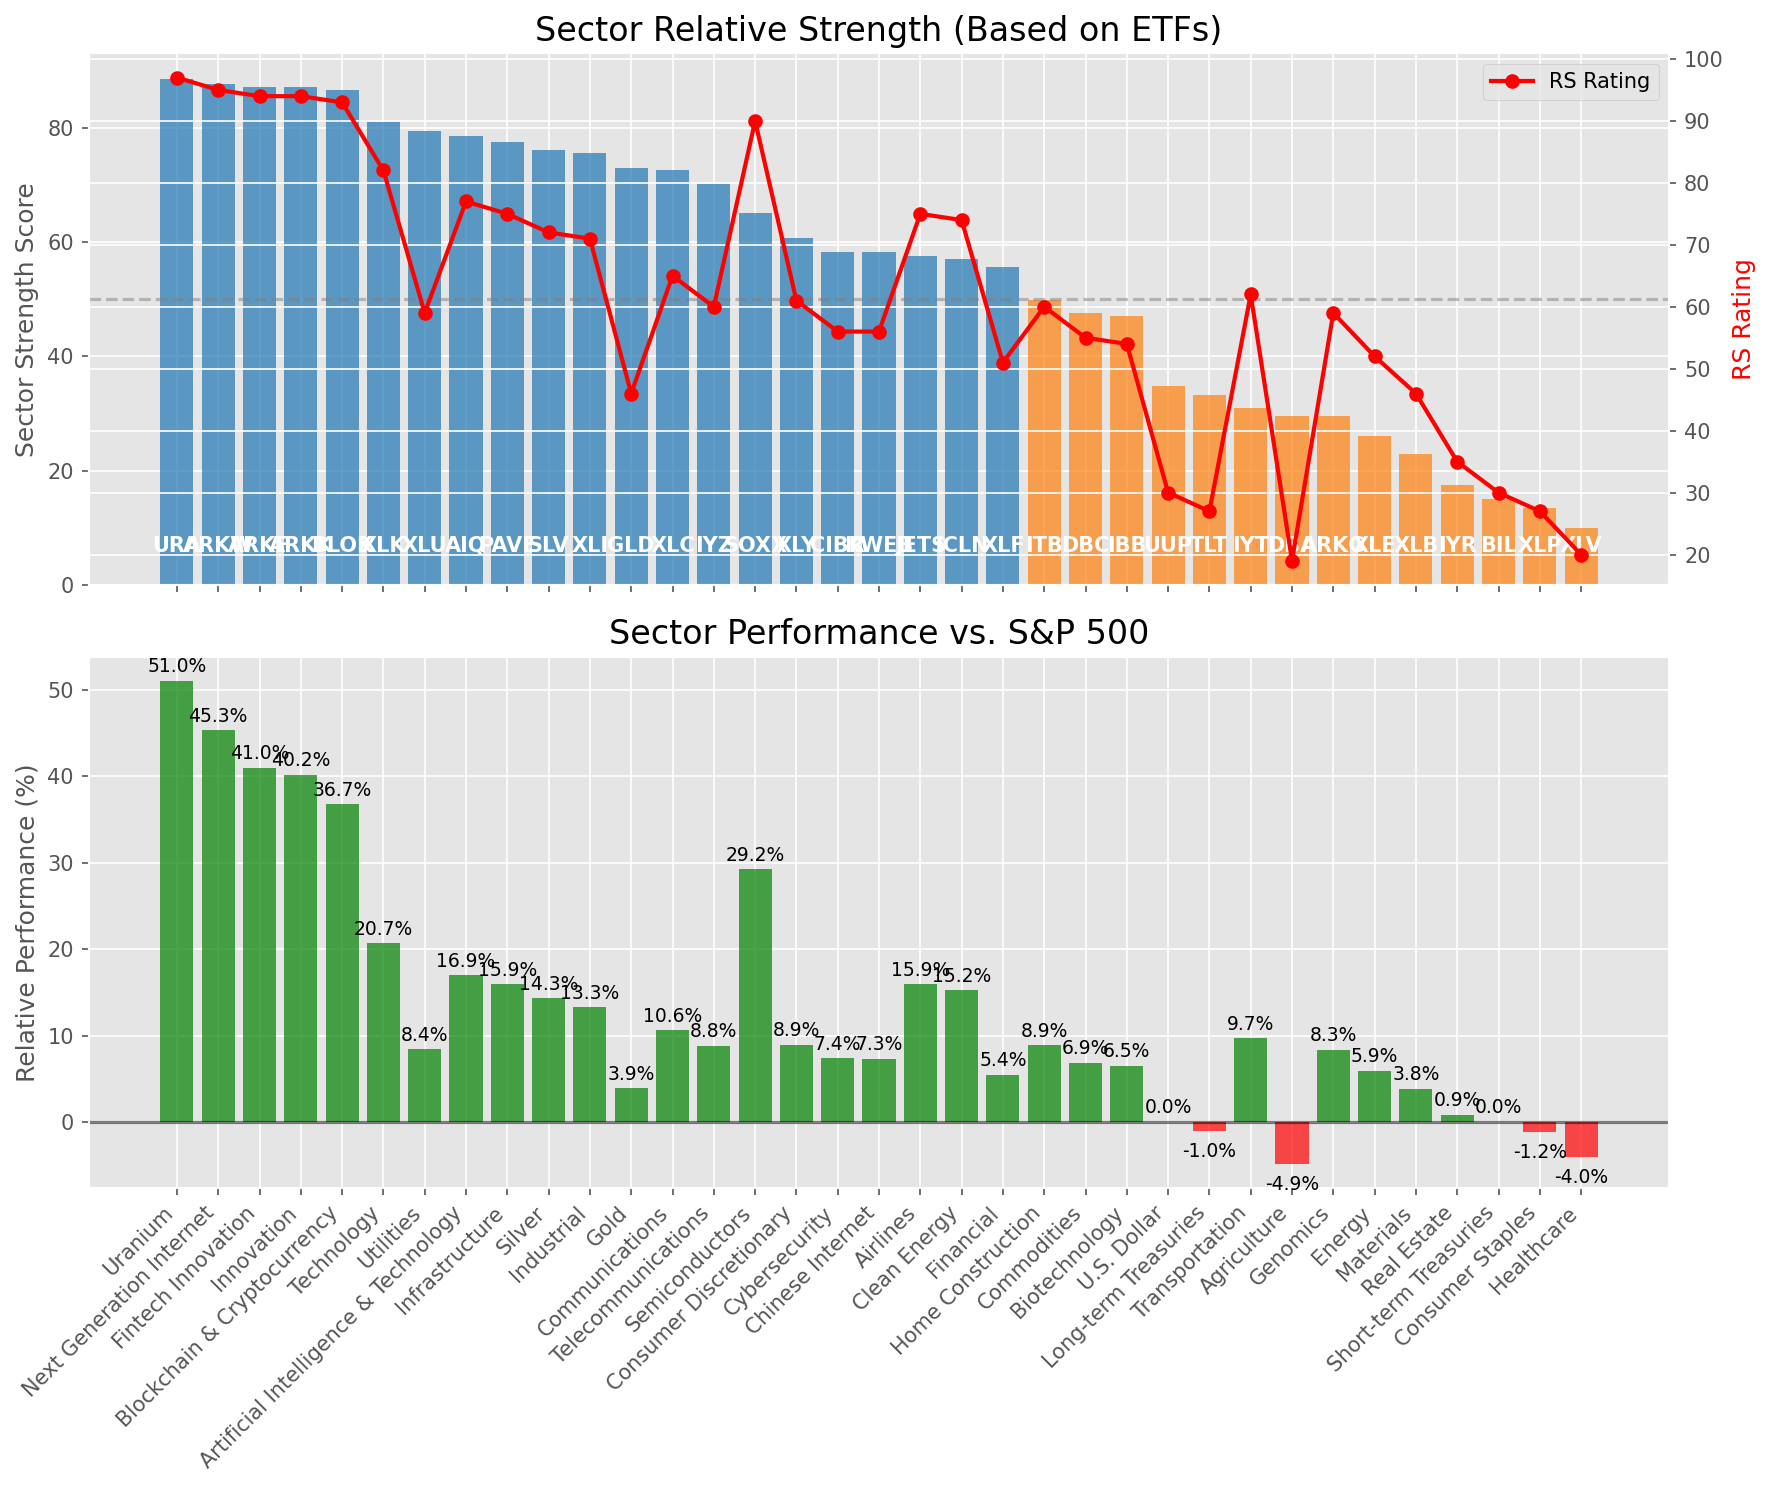
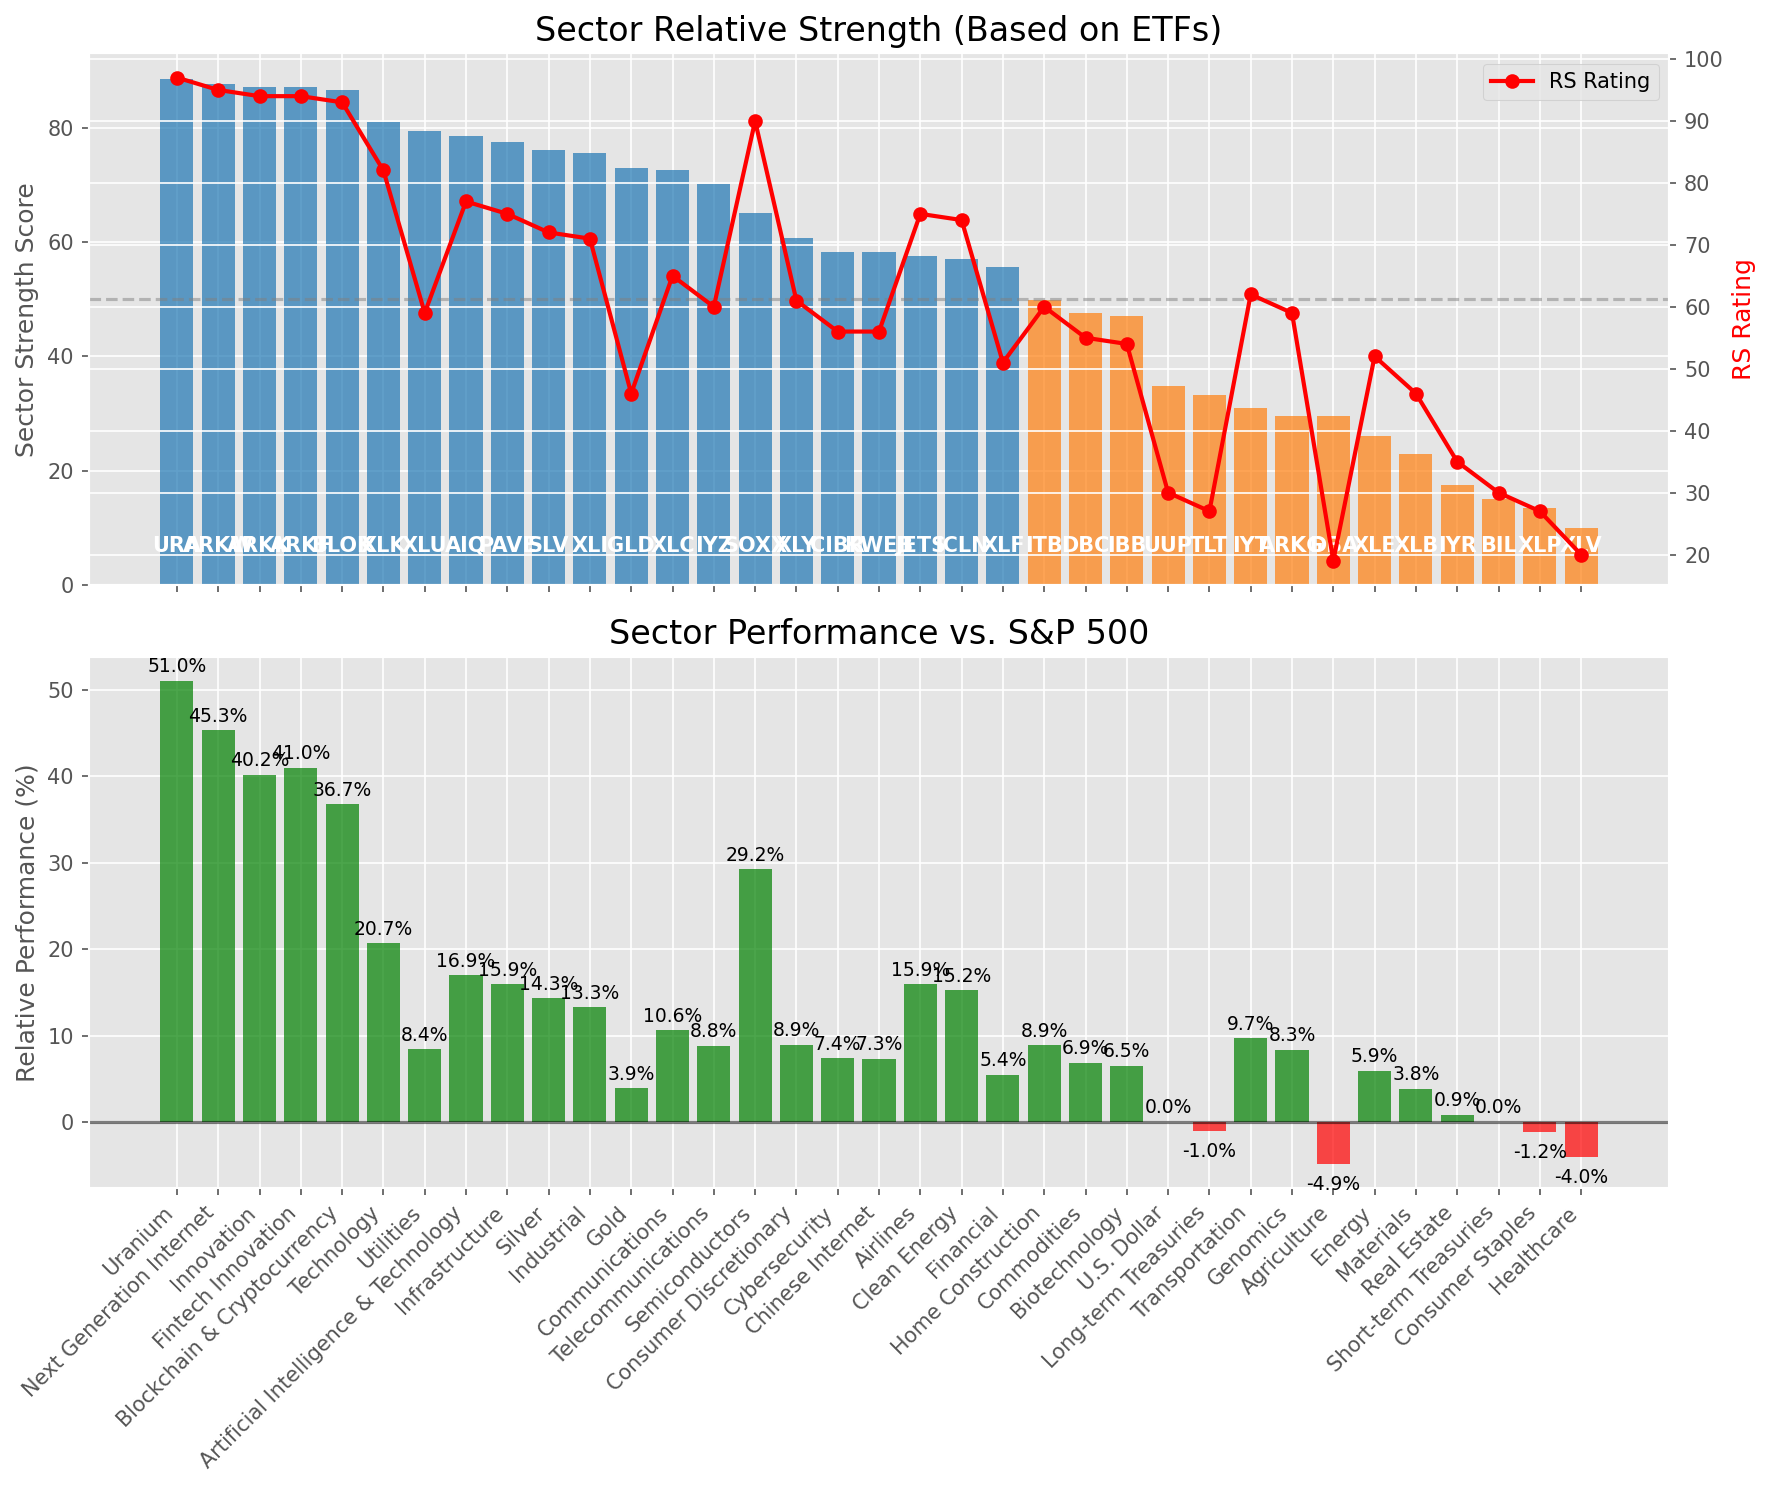
Add market report for 2025-08-03

diff --git a/oneil_relative_strength_report_2025-08-03.md b/oneil_relative_strength_report_2025-08-03.md
@@ -51,8 +51,8 @@ Based on William O'Neil's Relative Strength Methodology
 |-----|----------|-----------|-------------|--------------|-------|--------|
 | [URA](https://www.tradingview.com/chart/?symbol=URA) | 88.6 | 97.0 | 51.01% | 10d ✗, 50d ✓, 200d ✓ | ↗ | Uranium |
 | [ARKW](https://www.tradingview.com/chart/?symbol=ARKW) | 87.6 | 95.0 | 45.27% | 10d ✗, 50d ✓, 200d ✓ | ↗ | Next Generation Internet |
-| [ARKF](https://www.tradingview.com/chart/?symbol=ARKF) | 87.1 | 94.0 | 40.97% | 10d ✗, 50d ✓, 200d ✓ | ↗ | Fintech Innovation |
 | [ARKK](https://www.tradingview.com/chart/?symbol=ARKK) | 87.1 | 94.0 | 40.16% | 10d ✗, 50d ✓, 200d ✓ | ↗ | Innovation |
+| [ARKF](https://www.tradingview.com/chart/?symbol=ARKF) | 87.1 | 94.0 | 40.97% | 10d ✗, 50d ✓, 200d ✓ | ↗ | Fintech Innovation |
 | [BLOK](https://www.tradingview.com/chart/?symbol=BLOK) | 86.6 | 93.0 | 36.74% | 10d ✗, 50d ✓, 200d ✓ | ↗ | Blockchain & Cryptocurrency |
 | [XLK](https://www.tradingview.com/chart/?symbol=XLK) | 81.1 | 82.0 | 20.66% | 10d ✗, 50d ✓, 200d ✓ | ↗ | Technology |
 | [XLU](https://www.tradingview.com/chart/?symbol=XLU) | 79.5 | 59.0 | 8.43% | 10d ✓, 50d ✓, 200d ✓ | ↗ | Utilities |
@@ -76,8 +76,8 @@ Based on William O'Neil's Relative Strength Methodology
 | [UUP](https://www.tradingview.com/chart/?symbol=UUP) | 34.8 | 30.0 | 0.00% | 10d ✓, 50d ✓, 200d ✗ | ↘ | U.S. Dollar |
 | [TLT](https://www.tradingview.com/chart/?symbol=TLT) | 33.3 | 27.0 | -0.98% | 10d ✓, 50d ✓, 200d ✗ | ↘ | Long-term Treasuries |
 | [IYT](https://www.tradingview.com/chart/?symbol=IYT) | 31.0 | 62.0 | 9.68% | 10d ✗, 50d ✗, 200d ✗ | ↘ | Transportation |
-| [DBA](https://www.tradingview.com/chart/?symbol=DBA) | 29.5 | 19.0 | -4.86% | 10d ✗, 50d ✗, 200d ✗ | ↗ | Agriculture |
 | [ARKG](https://www.tradingview.com/chart/?symbol=ARKG) | 29.5 | 59.0 | 8.32% | 10d ✗, 50d ✗, 200d ✗ | ↘ | Genomics |
+| [DBA](https://www.tradingview.com/chart/?symbol=DBA) | 29.5 | 19.0 | -4.86% | 10d ✗, 50d ✗, 200d ✗ | ↗ | Agriculture |
 | [XLE](https://www.tradingview.com/chart/?symbol=XLE) | 26.0 | 52.0 | 5.93% | 10d ✗, 50d ✗, 200d ✗ | ↘ | Energy |
 | [XLB](https://www.tradingview.com/chart/?symbol=XLB) | 23.0 | 46.0 | 3.83% | 10d ✗, 50d ✗, 200d ✗ | ↘ | Materials |
 | [IYR](https://www.tradingview.com/chart/?symbol=IYR) | 17.5 | 35.0 | 0.85% | 10d ✗, 50d ✗, 200d ✗ | ↘ | Real Estate |
@@ -98,7 +98,7 @@ This table shows the relative strength metrics for different market sectors base
 
 ### **Current Sector Leadership**
 
-The current market leadership is coming from the following sectors: **Uranium, Next Generation Internet, Fintech Innovation**.
+The current market leadership is coming from the following sectors: **Uranium, Next Generation Internet, Innovation**.
 
 The **Uranium** sector (represented by **URA**) is showing particularly strong relative strength with an RS rating of 97.0 and performance of 51.01% vs. the S&P 500. This sector is trading above its 50-day, 200-day moving average(s). Investors should consider focusing on high RS stocks within these leading sectors for potential outperformance.
 
@@ -111,28 +111,28 @@ The following 40 stocks show exceptional relative strength:
 | RS Rating | Buy Score | Current Price | Chart | Name | Ticker |
 |-----------|-----------|---------------|-------|------|--------|
 | 100 | 100 | $194.74 | [Chart](https://www.tradingview.com/chart/?symbol=CLS) | Celestica, Inc. | CLS |
+| 100 | 100 | $144.00 | [Chart](https://www.tradingview.com/chart/?symbol=SEZL) | Sezzle Inc. Common Stock | SEZL |
 | 100 | 100 | $63.69 | [Chart](https://www.tradingview.com/chart/?symbol=MP) | MP Materials Corp. | MP |
 | 100 | 100 | $232.73 | [Chart](https://www.tradingview.com/chart/?symbol=DAVE) | Dave Inc. Class A Common Stock | DAVE |
-| 100 | 100 | $144.00 | [Chart](https://www.tradingview.com/chart/?symbol=SEZL) | Sezzle Inc. Common Stock | SEZL |
+| 99 | 100 | $125.03 | [Chart](https://www.tradingview.com/chart/?symbol=RBLX) | Roblox Corporation | RBLX |
+| 99 | 100 | $62.55 | [Chart](https://www.tradingview.com/chart/?symbol=HIMS) | Hims & Hers Health, Inc. | HIMS |
 | 99 | 100 | $26.34 | [Chart](https://www.tradingview.com/chart/?symbol=CPS) | Cooper-Standard Automotive Inc. | CPS |
 | 99 | 100 | $656.50 | [Chart](https://www.tradingview.com/chart/?symbol=GEV) | GE Vernova Inc. | GEV |
-| 99 | 100 | $62.55 | [Chart](https://www.tradingview.com/chart/?symbol=HIMS) | Hims & Hers Health, Inc. | HIMS |
-| 99 | 100 | $125.03 | [Chart](https://www.tradingview.com/chart/?symbol=RBLX) | Roblox Corporation | RBLX |
-| 98 | 100 | $200.11 | [Chart](https://www.tradingview.com/chart/?symbol=NET) | Cloudflare, Inc. Class A common stock, par value $0.001 per share | NET |
 | 98 | 100 | $378.01 | [Chart](https://www.tradingview.com/chart/?symbol=TLN) | Talen Energy Corporation Common Stock | TLN |
+| 98 | 100 | $200.11 | [Chart](https://www.tradingview.com/chart/?symbol=NET) | Cloudflare, Inc. Class A common stock, par value $0.001 per share | NET |
 | 97 | 100 | $164.97 | [Chart](https://www.tradingview.com/chart/?symbol=IRTC) | iRhythm Technologies, Inc | IRTC |
 | 96 | 100 | $167.63 | [Chart](https://www.tradingview.com/chart/?symbol=NRG) | NRG Energy, Inc. | NRG |
+| 95 | 100 | $105.18 | [Chart](https://www.tradingview.com/chart/?symbol=VRNA) | Verona Pharma plc | VRNA |
 | 95 | 100 | $48.37 | [Chart](https://www.tradingview.com/chart/?symbol=REVG) | REV Group, Inc. | REVG |
 | 95 | 100 | $174.26 | [Chart](https://www.tradingview.com/chart/?symbol=COOP) | Mr. Cooper Group Inc. Common Stock | COOP |
-| 95 | 100 | $105.18 | [Chart](https://www.tradingview.com/chart/?symbol=VRNA) | Verona Pharma plc | VRNA |
 | 95 | 100 | $367.78 | [Chart](https://www.tradingview.com/chart/?symbol=CVNA) | Carvana Co. | CVNA |
-| 94 | 100 | $110.96 | [Chart](https://www.tradingview.com/chart/?symbol=SANM) | Sanmina  Corp | SANM |
 | 94 | 100 | $493.58 | [Chart](https://www.tradingview.com/chart/?symbol=CW) | Curtiss-Wright Corp. | CW |
-| 93 | 100 | $379.17 | [Chart](https://www.tradingview.com/chart/?symbol=APP) | Applovin Corporation Class A Common Stock | APP |
+| 94 | 100 | $110.96 | [Chart](https://www.tradingview.com/chart/?symbol=SANM) | Sanmina  Corp | SANM |
 | 93 | 100 | $259.29 | [Chart](https://www.tradingview.com/chart/?symbol=WWD) | Woodward, Inc. | WWD |
 | 93 | 100 | $88.30 | [Chart](https://www.tradingview.com/chart/?symbol=RYTM) | Rhythm Pharmaceuticals, Inc. Common Stock | RYTM |
-| 93 | 100 | $91.74 | [Chart](https://www.tradingview.com/chart/?symbol=EBAY) | eBay Inc | EBAY |
+| 93 | 100 | $379.17 | [Chart](https://www.tradingview.com/chart/?symbol=APP) | Applovin Corporation Class A Common Stock | APP |
 | 93 | 100 | $42.76 | [Chart](https://www.tradingview.com/chart/?symbol=LTM) | LATAM Airlines Group S.A. American Depositary Shares (each representing two thousand (2,000) shares of Common Stock) | LTM |
+| 93 | 100 | $91.74 | [Chart](https://www.tradingview.com/chart/?symbol=EBAY) | eBay Inc | EBAY |
 | 91 | 100 | $269.38 | [Chart](https://www.tradingview.com/chart/?symbol=GE) | GE Aerospace | GE |
 | 90 | 100 | $35.07 | [Chart](https://www.tradingview.com/chart/?symbol=APG) | APi Group Corporation | APG |
 | 90 | 100 | $80.96 | [Chart](https://www.tradingview.com/chart/?symbol=TPB) | Turning Point Brands, Inc. | TPB |
@@ -160,14 +160,14 @@ The following 62 stocks show deteriorating relative strength:
 
 | RS Rating | Sell Score | Current Price | Chart | Name | Ticker |
 |-----------|------------|---------------|-------|------|--------|
-| 1 | 100 | $70.57 | [Chart](https://www.tradingview.com/chart/?symbol=LNTH) | Lantheus Holdings, Inc | LNTH |
 | 1 | 100 | $12.47 | [Chart](https://www.tradingview.com/chart/?symbol=NVDS) | Investment Managers Series Trust II Tradr 1.5X Short NVDA Daily ETF | NVDS |
+| 1 | 100 | $70.57 | [Chart](https://www.tradingview.com/chart/?symbol=LNTH) | Lantheus Holdings, Inc | LNTH |
 | 2 | 100 | $13.70 | [Chart](https://www.tradingview.com/chart/?symbol=CLBT) | Cellebrite DI Ltd. Class A Ordinary Shares | CLBT |
-| 3 | 100 | $14.65 | [Chart](https://www.tradingview.com/chart/?symbol=CSTL) | Castle Biosciences, Inc. Common Stock | CSTL |
 | 3 | 100 | $24.50 | [Chart](https://www.tradingview.com/chart/?symbol=ZSL) | ProShares UltraShort Silver | ZSL |
-| 5 | 100 | $12.22 | [Chart](https://www.tradingview.com/chart/?symbol=CDNA) | CareDx, Inc. | CDNA |
+| 3 | 100 | $14.65 | [Chart](https://www.tradingview.com/chart/?symbol=CSTL) | Castle Biosciences, Inc. Common Stock | CSTL |
 | 5 | 100 | $43.26 | [Chart](https://www.tradingview.com/chart/?symbol=SDOW) | ProShares UltraPro Short Dow 30 | SDOW |
 | 5 | 100 | $10.22 | [Chart](https://www.tradingview.com/chart/?symbol=ARDT) | Ardent Health, Inc. | ARDT |
+| 5 | 100 | $12.22 | [Chart](https://www.tradingview.com/chart/?symbol=CDNA) | CareDx, Inc. | CDNA |
 | 6 | 100 | $10.37 | [Chart](https://www.tradingview.com/chart/?symbol=OEC) | Orion S.A. | OEC |
 | 6 | 100 | $20.39 | [Chart](https://www.tradingview.com/chart/?symbol=KIDS) | OrthoPediatrics Corp. Common Stock | KIDS |
 | 7 | 100 | $20.57 | [Chart](https://www.tradingview.com/chart/?symbol=AMRK) | A-Mark Precious Metals, Inc. | AMRK |
@@ -218,8 +218,8 @@ The following 62 stocks show deteriorating relative strength:
 | 29 | 71 | $22.86 | [Chart](https://www.tradingview.com/chart/?symbol=IBTG) | iShares iBonds Dec 2026 Term Treasury ETF | IBTG |
 | 33 | 69 | $54.05 | [Chart](https://www.tradingview.com/chart/?symbol=ALRM) | Alarm.com Holdings, Inc. | ALRM |
 | 34 | 68 | $47.56 | [Chart](https://www.tradingview.com/chart/?symbol=SPHD) | Invesco S&P 500 High Dividend Low Volatility ETF | SPHD |
-| 35 | 67 | $78.36 | [Chart](https://www.tradingview.com/chart/?symbol=FIS) | Fidelity National Information Services, Inc. | FIS |
 | 35 | 67 | $45.92 | [Chart](https://www.tradingview.com/chart/?symbol=FTSL) | First Trust Senior Loan Fund ETF | FTSL |
+| 35 | 67 | $78.36 | [Chart](https://www.tradingview.com/chart/?symbol=FIS) | Fidelity National Information Services, Inc. | FIS |
 | 39 | 67 | $78.04 | [Chart](https://www.tradingview.com/chart/?symbol=GPN) | Global Payments, Inc. | GPN |
 | 39 | 64 | $36.57 | [Chart](https://www.tradingview.com/chart/?symbol=HYLB) | Xtrackers USD High Yield Corporate Bond ETF | HYLB |
 
